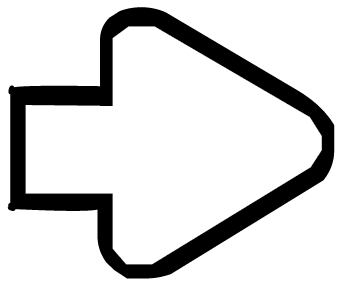
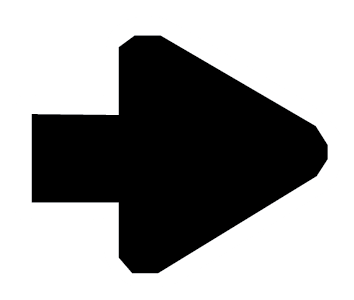
added button skins

diff --git a/source/core/src/main/com/deco2800/game/components/story/StoryDisplay.java b/source/core/src/main/com/deco2800/game/components/story/StoryDisplay.java
@@ -25,6 +25,7 @@ import com.badlogic.gdx.scenes.scene2d.ui.*;
 import com.badlogic.gdx.scenes.scene2d.Touchable;
 import com.badlogic.gdx.scenes.scene2d.utils.Drawable;
 import com.badlogic.gdx.scenes.scene2d.utils.ChangeListener;
+import com.deco2800.game.components.mainmenu.InsertButtons;
 import com.deco2800.game.components.mainmenu.MainMenuDisplay;
 import com.deco2800.game.services.ServiceLocator;
 import com.deco2800.game.ui.UIComponent;
@@ -50,6 +51,8 @@ public class StoryDisplay extends UIComponent {
     private ArrayList<String> storyImages;
     private int start;
     private int end;
+
+    private static final String[] buttonImages = {"images/next_cut.png", "images/prev-cut.png"};
 
 
 
@@ -84,11 +87,30 @@ public class StoryDisplay extends UIComponent {
 
         start += 1;
         stage.addActor(table);
+        InsertButtons bothButtons = new InsertButtons();
+
+        // next button
+
+        String nextTexture = "images/next_cut.png";
+        String nextTextureHover = "images/next_cut_hover.PNG";
+
+        ImageButton nextBtn;
+        nextBtn = bothButtons.draw(nextTexture, nextTextureHover);
 
 
-        TextButton nextBtn = new TextButton("Next", skin);
+
+        // prev buttons
+        String prevTexture = "images/prev_cut.png";
+        String prevTextureHover = "images/prev_cut_hover.png";
+        ImageButton prevBtn;
+        prevBtn = bothButtons.draw(prevTexture, prevTextureHover);
+
+
+        //TextButton nextBtn = new TextButton("Next", skin);
         TextButton skipBtn = new TextButton("Skip", skin);
-        TextButton prevBtn = new TextButton("Previous", skin);
+        //TextButton prevBtn = new TextButton("Previous", skin);
+
+        /*
         if (start == 0){
             prevBtn.setVisible(false);
             Gdx.gl.glClearColor(0, 0, 0, 0);
@@ -97,7 +119,7 @@ public class StoryDisplay extends UIComponent {
             prevBtn.setVisible(true);
 
         }
-
+*/
         // Triggers an event when the button is pressed
 
 
